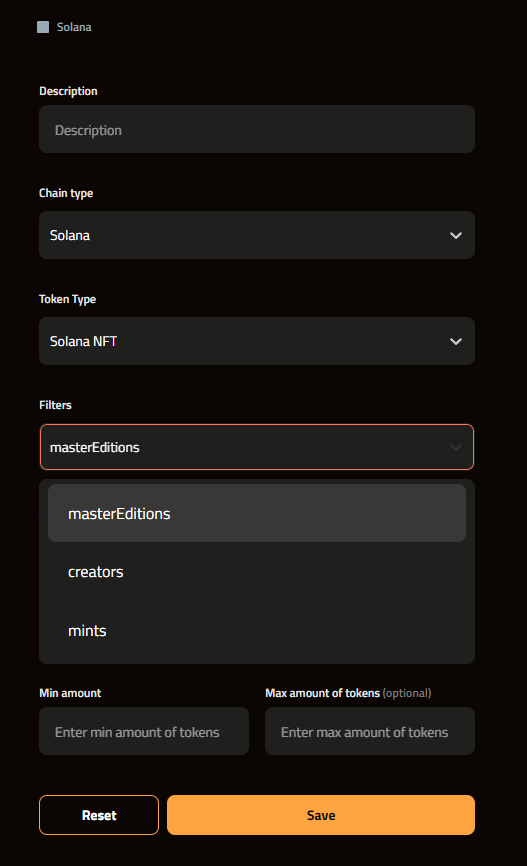
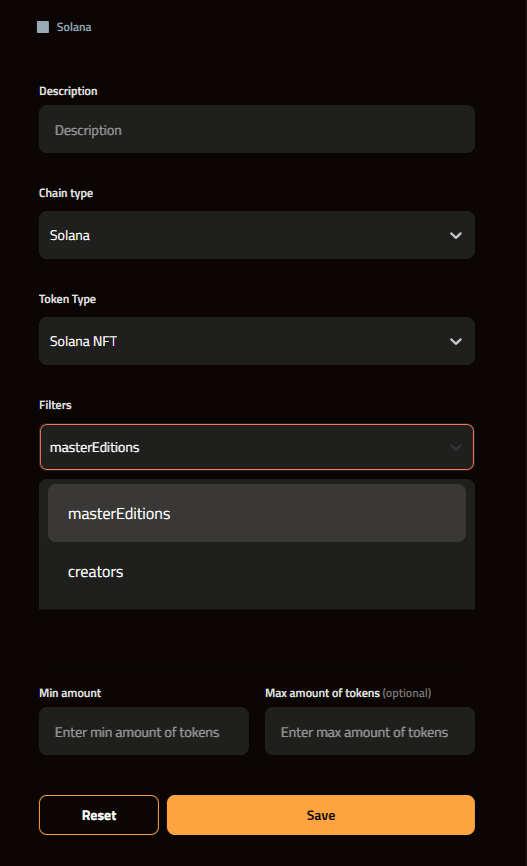
docs: updated solana docs to 2 filters

Changed region(s): [[0.0607, 0.6859, 0.9108, 0.7794]]

diff --git a/help-docs/command-center/create-a-tgr/solana.md b/help-docs/command-center/create-a-tgr/solana.md
@@ -40,7 +40,7 @@ When creating a TGR for a Solana NFT follow the same process as before, but you 
      <img  src={img1} alt="Solana NFT TGR" />
    </div>
 
-The three filters available in Collab.Land are:
+The two filters available in Collab.Land are:
 
 1. Creators - This filter is the most commonly used when working with a collection of NFTs. You can find the verified creators filter address by viewing any token from your collection on Solscan. Look for the "creators" section under the metadata tab, and the verified creators address will be the one that says "verified" : int 1 beneath the address.
 
